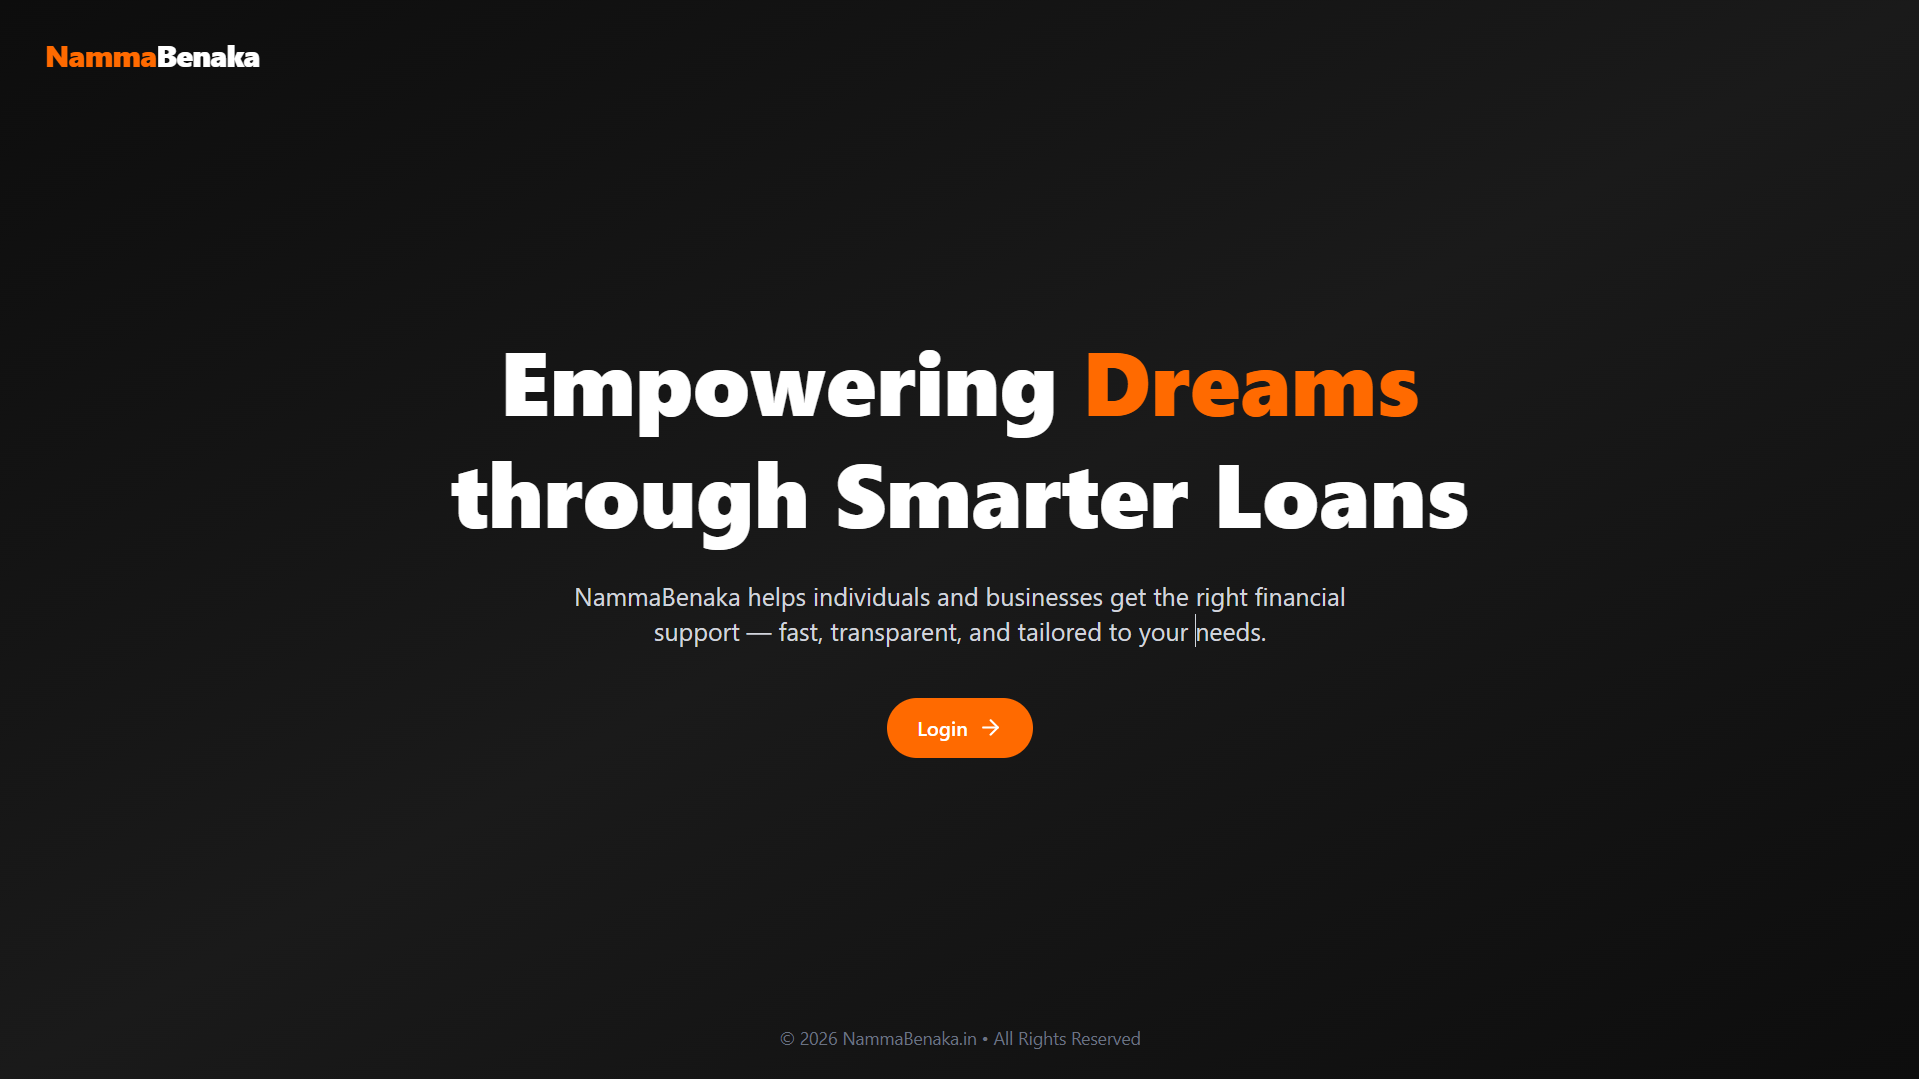
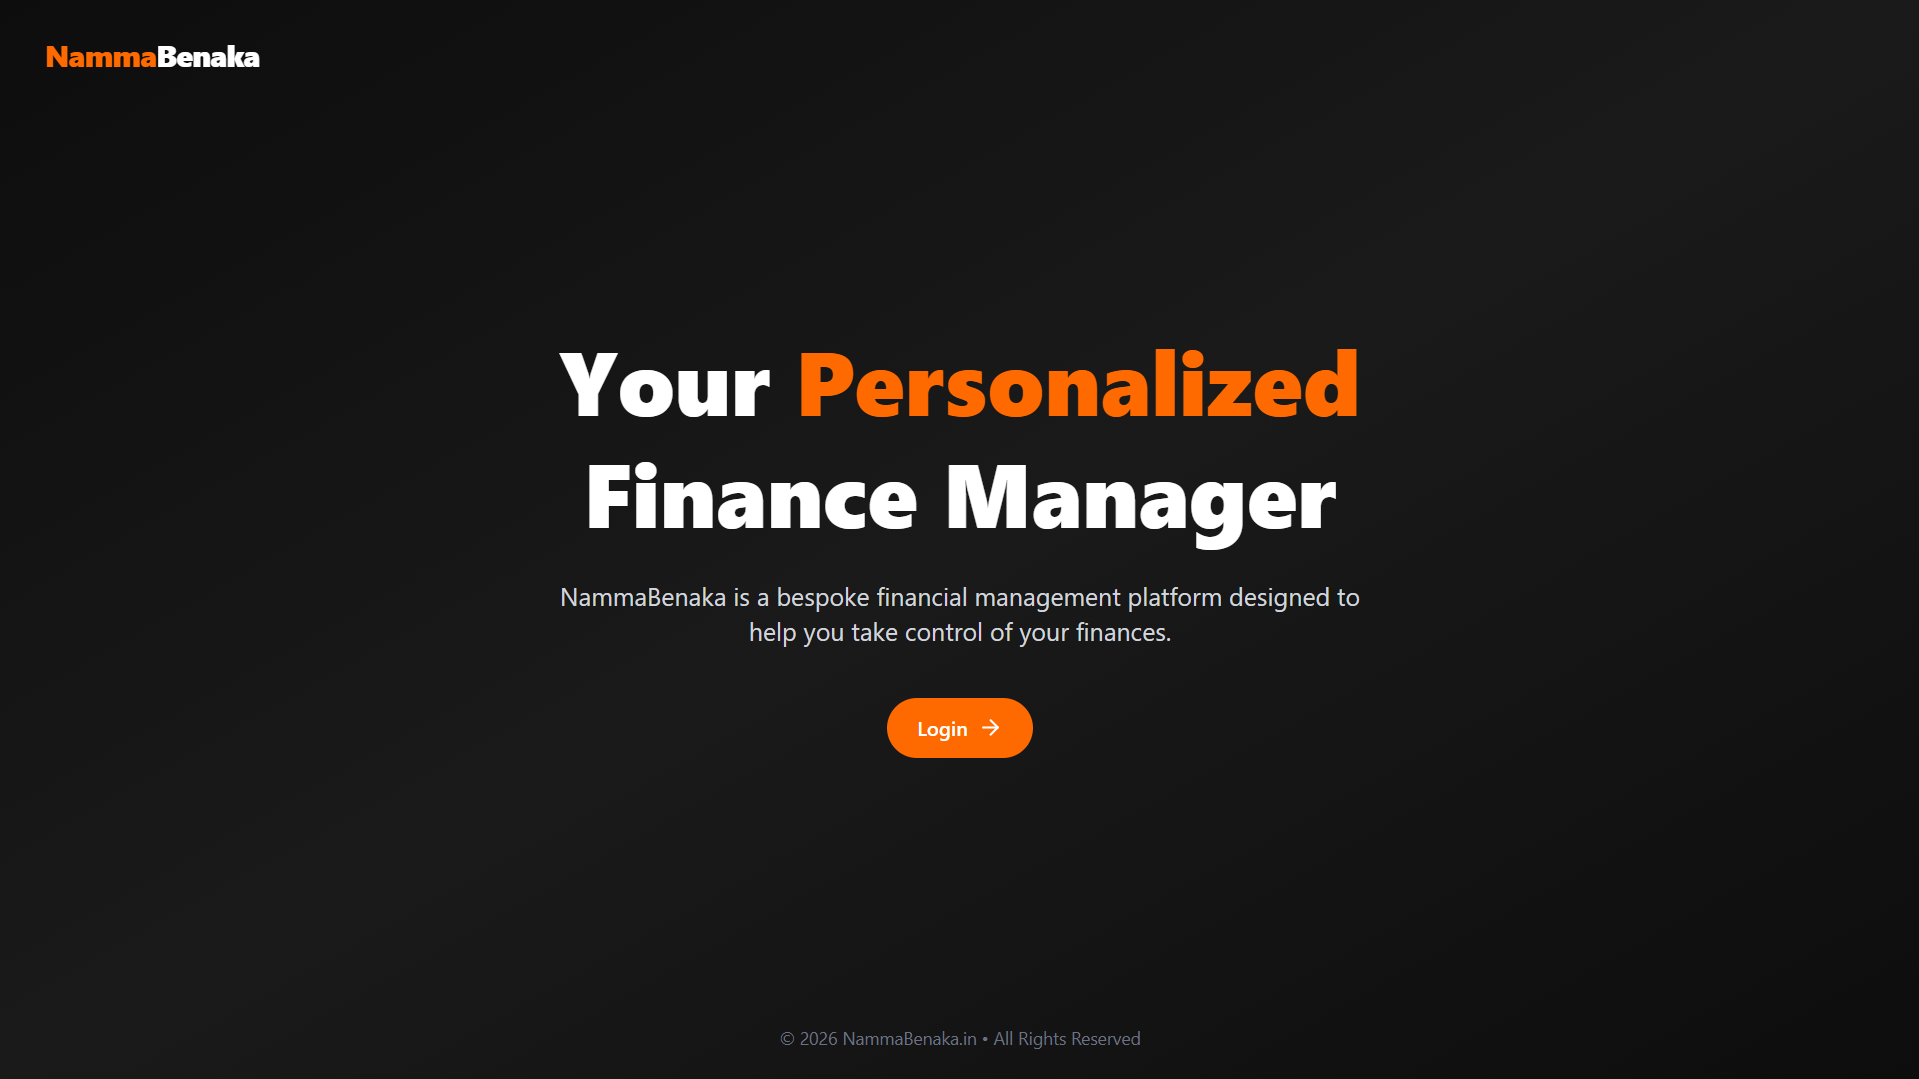
portfolio v2

Changed region(s): [[0.2152, 0.3058, 0.7686, 0.5199], [0.2767, 0.5505, 0.7071, 0.6117]]

diff --git a/app/components/ProjectSection.jsx b/app/components/ProjectSection.jsx
@@ -2,6 +2,7 @@
 
 import React, { useState, useRef } from 'react';
 import Link from 'next/link';
+import Image from 'next/image';
 import { motion, AnimatePresence, useInView } from 'framer-motion';
 
 // ─── DATA ────────────────────────────────────────────────────────────────────
@@ -13,10 +14,11 @@ const PROJECTS = [
     title: 'RUVA',
     sub: 'Full-Stack E-Commerce',
     tagline: 'Traditional Indian ethnic wear - from catalogue to checkout, fully yours.',
-    liveHref: 'https://github.com/Gagan-poojari/',
-    githubHref: 'https://github.com/Gagan-poojari/',
+    liveHref: 'https://ruvaonline.com/',
+    githubHref: 'https://github.com/Gagan-poojari/ruva',
+    image: '/projects/ruva.png',
     cat: 'Full-Stack',
-    accent: '#F97316',
+    accent: '#DB2777',
     stack: ['Next.js', 'React', 'Node.js', 'Express.js', 'MongoDB', 'JWT', 'Razorpay', 'Cloudinary', 'Tailwind CSS', 'Google OAuth', 'Gemini AI', 'EmailJS'],
     bullets: [
       'Product catalog, category browsing, cart, wishlist, and user profiles with complete order history.',
@@ -32,9 +34,10 @@ const PROJECTS = [
     sub: 'AI Video Auto-Censorship',
     tagline: 'Transcribes, detects profanity, and bleeps it - frame-accurate, every time.',
     liveHref: 'https://pleeb-meme-the-mess.streamlit.app/',
-    githubHref: 'https://github.com/Gagan-poojari/',
+    githubHref: 'https://github.com/Gagan-poojari/pleeb',
+    image: '/projects/pleeb.png',
     cat: 'ML & AI',
-    accent: '#DB2777',
+    accent: '#0194E2',
     stack: ['Python', 'FastAPI', 'Whisper', 'FFmpeg', 'MoviePy', 'Pydub', 'Next.js', 'SQLAlchemy', 'SSE', 'REST API'],
     bullets: [
       'AI-powered video censorship: transcribes speech with word-level timestamps, detects profanity, replaces flagged words with bleep/meme audio in perfect sync.',
@@ -49,10 +52,11 @@ const PROJECTS = [
     title: 'MLOps Pipeline',
     sub: 'End-to-End Sentiment Analysis',
     tagline: 'Production-grade NLP pipeline - from raw IMDB data to live predictions.',
-    liveHref: 'https://github.com/Gagan-poojari/',
-    githubHref: 'https://github.com/Gagan-poojari/',
+    liveHref: 'https://github.com/Gagan-poojari/sentiment-mlops',
+    githubHref: 'https://github.com/Gagan-poojari/sentiment-mlops',
+    image: '/projects/mlops.png',
     cat: 'MLOps',
-    accent: '#0194E2',
+    accent: '#F97316',
     stack: ['Python', 'scikit-learn', 'NLTK', 'DVC', 'MLflow', 'DagsHub', 'Flask', 'Prometheus', 'GitHub Actions', 'AWS S3', 'pandas', 'NumPy'],
     bullets: [
       'End-to-end NLP pipeline for binary sentiment classification on IMDB data, serving real-time predictions via Flask UI.',
@@ -69,6 +73,7 @@ const PROJECTS = [
     tagline: 'End-to-end fintech - from borrower onboarding to automated late-fee crons.',
     liveHref: 'https://www.nammabenaka.in/',
     githubHref: 'https://github.com/Gagan-poojari/',
+    image: '/projects/nammabenaka.png',
     cat: 'Full-Stack',
     accent: '#F97316',
     stack: ['Next.js', 'React', 'Node.js', 'Express.js', 'MongoDB', 'JWT', 'Tailwind CSS', 'Recharts', 'Node-Cron', 'bcrypt'],
@@ -85,10 +90,11 @@ const PROJECTS = [
     title: 'HOLMAC Interiors',
     sub: 'Interior Design Portfolio',
     tagline: 'Cinematic entry video, Cloudinary galleries, and every lead captured.',
-    liveHref: 'https://github.com/Gagan-poojari/',
-    githubHref: 'https://github.com/Gagan-poojari/',
+    liveHref: 'https://www.holmacinterior.com/',
+    githubHref: 'https://github.com/Gagan-poojari/holmac_interior',
+    image: '/projects/holmac.png',
     cat: 'Frontend',
-    accent: '#14B8A6',
+    accent: '#F59E0B',
     stack: ['Next.js', 'React', 'Tailwind CSS', 'Cloudinary', 'EmailJS', 'Google Analytics', 'Framer Motion'],
     bullets: [
       'Multi-page marketing site with hero sections, service highlights, product catalogs, and client testimonials.',
@@ -104,7 +110,8 @@ const PROJECTS = [
     sub: 'Institute Enrollment Website',
     tagline: 'Dynamic course pages, query-param registration, and silky Framer carousels.',
     liveHref: 'https://www.fortuneudupi.in/',
-    githubHref: 'https://github.com/Gagan-poojari/',
+    githubHref: 'https://github.com/Gagan-poojari/fice',
+    image: '/projects/fice.png',
     cat: 'Frontend',
     accent: '#4F6EF7',
     stack: ['Next.js', 'React', 'Tailwind CSS', 'Framer Motion', 'Swiper.js', 'EmailJS', 'next/image'],
@@ -122,6 +129,7 @@ const PROJECTS = [
     tagline: 'A flipbook menu, coverflow hero, and the soul of Udupi on every screen.',
     liveHref: 'https://github.com/Gagan-poojari/Sri-Udupi-Food-Hub/tree/main',
     githubHref: 'https://github.com/Gagan-poojari/Sri-Udupi-Food-Hub/tree/main',
+    image: '/projects/sufh.png',
     cat: 'Frontend',
     accent: '#22C55E',
     stack: ['Next.js', 'React', 'Tailwind CSS', 'Swiper.js', 'react-pageflip', 'Framer Motion'],
@@ -136,35 +144,37 @@ const PROJECTS = [
     num: '08',
     title: 'Portfolio',
     sub: 'This Very Website',
-    tagline: 'Rotating steel flowers, scanline beams, and obsessive attention to detail.',
+    tagline: 'Let the world know about me!',
     liveHref: '/',
     githubHref: 'https://github.com/Gagan-poojari/',
+    image: '/projects/portfolio.png',
     cat: 'Frontend',
     accent: '#A855F7',
     stack: ['Next.js', 'React', 'Tailwind CSS', 'Framer Motion', 'EmailJS'],
     bullets: [
       'Cinematic dark experience - scanline effects, particle systems, rotating parallax elements, scroll-driven animations.',
-      'Custom skills section with per-category glow accents, animated badge grid, and stat counters.',
+      'Custom sections with per-category glow accents, animated badge grid, and stat counters.',
       'Horizontal scroll project section with drag support, animated detail panels, and category filtering.',
     ],
   },
-  {
-    id: 'nn',
-    num: '09',
-    title: 'Neural Net from Scratch',
-    sub: 'NumPy-only Digit Classifier',
-    tagline: 'Backprop, gradient descent, 90% accuracy - zero ML libraries.',
-    liveHref: 'https://github.com/Gagan-poojari/',
-    githubHref: 'https://github.com/Gagan-poojari/',
-    cat: 'ML & AI',
-    accent: '#F59E0B',
-    stack: ['Python', 'NumPy', 'Matplotlib', 'MNIST'],
-    bullets: [
-      'Handwritten digit classifier from scratch using only NumPy - no TensorFlow, no PyTorch.',
-      'Implemented forward pass, backpropagation, and gradient descent manually from first principles.',
-      'Achieved 90% test accuracy on MNIST, validating against industry-standard benchmarks.',
-    ],
-  },
+  // {
+  //   id: 'nn',
+  //   num: '09',
+  //   title: 'Neural Net from Scratch',
+  //   sub: 'NumPy-only Digit Classifier',
+  //   tagline: 'Backprop, gradient descent, 90% accuracy - zero ML libraries.',
+  //   liveHref: 'https://github.com/Gagan-poojari/',
+  //   githubHref: 'https://github.com/Gagan-poojari/',
+  //   image: '/projects/nn.png',
+  //   cat: 'ML & AI',
+  //   accent: '#14B8A6',
+  //   stack: ['Python', 'NumPy', 'Matplotlib', 'MNIST'],
+  //   bullets: [
+  //     'Handwritten digit classifier from scratch using only NumPy - no TensorFlow, no PyTorch.',
+  //     'Implemented forward pass, backpropagation, and gradient descent manually from first principles.',
+  //     'Achieved 90% test accuracy on MNIST, validating against industry-standard benchmarks.',
+  //   ],
+  // },
 ];
 
 const CATS = ['All', 'Full-Stack', 'ML & AI', 'MLOps', 'Frontend'];
@@ -227,24 +237,21 @@ function ProjectRow({ project, index, isExpanded, onToggle }) {
           {num}
         </div>
 
-        {/* ── Visual pane */}
-        <div className={`relative md:w-[48%] w-full flex-shrink-0 overflow-hidden`}
+        {/* Placeholder Visual pane */}
+        {/* <div className={`relative md:w-[48%] w-full flex-shrink-0 overflow-hidden`}
           style={{ minHeight: '280px', aspectRatio: '16/10' }}>
-          {/* Placeholder visual - replace with next/image when you have screenshots */}
           <div
             className="absolute inset-0 flex items-center justify-center transition-all duration-700 group-hover:scale-[1.03]"
             style={{
               background: `radial-gradient(ellipse at 40% 50%, ${hex2rgba(accent, 0.15)}, transparent 70%), linear-gradient(135deg, #0a0a0a 0%, #111 100%)`,
             }}
           >
-            {/* Grid texture overlay */}
             <div className="absolute inset-0 opacity-20"
               style={{
                 backgroundImage: `linear-gradient(${hex2rgba(accent, 0.15)} 1px, transparent 1px), linear-gradient(90deg, ${hex2rgba(accent, 0.15)} 1px, transparent 1px)`,
                 backgroundSize: '32px 32px',
               }}
             />
-            {/* Title monogram */}
             <span
               className="relative z-10 font-black tracking-tighter select-none"
               style={{
@@ -258,7 +265,6 @@ function ProjectRow({ project, index, isExpanded, onToggle }) {
             </span>
           </div>
 
-          {/* Category badge */}
           <div className="absolute top-4 left-4 z-20">
             <span
               className="text-[9px] font-mono tracking-[0.2em] uppercase px-3 py-1.5 rounded-full backdrop-blur-sm border"
@@ -271,8 +277,7 @@ function ProjectRow({ project, index, isExpanded, onToggle }) {
               {project.cat}
             </span>
           </div>
-
-          {/* Accent line left/right edge */}
+          
           <div
             className={`absolute top-0 bottom-0 w-[2px] transition-opacity duration-300 ${isExpanded ? 'opacity-100' : 'opacity-0 group-hover:opacity-60'}`}
             style={{
@@ -280,7 +285,78 @@ function ProjectRow({ project, index, isExpanded, onToggle }) {
               [isEven ? 'right' : 'left']: 0,
             }}
           />
-        </div>
+        </div> */}
+        {/* ── Visual pane */}
+<div
+  className="relative md:w-[48%] w-full flex-shrink-0 overflow-hidden bg-black"
+  style={{ minHeight: '320px' }}
+>
+  <motion.div
+    className="absolute inset-0"
+    whileHover={{ scale: 1.04 }}
+    transition={{ duration: 0.7 }}
+  >
+    <Image
+      src={project.image}
+      alt={title}
+      fill
+      className="object-cover"
+    />
+  </motion.div>
+
+  {/* dark overlay */}
+  <div className="absolute inset-0 bg-gradient-to-t from-black via-black/30 to-transparent" />
+
+  {/* accent glow */}
+  <div
+    className="absolute inset-0"
+    style={{
+      background: `linear-gradient(
+        135deg,
+        ${hex2rgba(accent, 0.15)},
+        transparent 45%
+      )`,
+    }}
+  />
+
+  {/* category */}
+  <div className="absolute top-5 left-5 z-20">
+    <span
+      className="text-[9px] font-mono tracking-[0.2em] uppercase px-3 py-1.5 rounded-full backdrop-blur-md border"
+      style={{
+        color: accent,
+        borderColor: hex2rgba(accent, 0.35),
+        background: hex2rgba(accent, 0.15),
+      }}
+    >
+      {project.cat}
+    </span>
+  </div>
+
+  {/* project number */}
+  <div
+    className="absolute bottom-4 right-5 z-20 font-black"
+    style={{
+      fontFamily: "'Syne', sans-serif",
+      fontSize: '70px',
+      color: hex2rgba(accent, 0.18),
+      lineHeight: 1,
+    }}
+  >
+    {num}
+  </div>
+
+  {/* accent edge */}
+  <div
+    className={`absolute top-0 bottom-0 w-[2px] ${
+      isExpanded ? 'opacity-100' : 'opacity-0 group-hover:opacity-70'
+    }`}
+    style={{
+      background: `linear-gradient(to bottom, transparent, ${accent}, transparent)`,
+      [isEven ? 'right' : 'left']: 0,
+    }}
+  />
+</div>
 
         {/* ── Content pane */}
         <div className={`relative z-10 flex-1 min-w-0 flex flex-col justify-center px-8 md:px-12 py-10 md:py-14 overflow-hidden`}>
@@ -291,7 +367,7 @@ function ProjectRow({ project, index, isExpanded, onToggle }) {
             Project {num} &nbsp;·&nbsp; {sub}
           </p>
 
-          <h3
+          {/* <h3
             className="font-black leading-[0.92] tracking-tight mb-4 break-words min-w-0"
             style={{
               fontFamily: "'Syne', sans-serif",
@@ -300,7 +376,19 @@ function ProjectRow({ project, index, isExpanded, onToggle }) {
             }}
           >
             {title}
-          </h3>
+          </h3> */}
+          <span
+  className="bg-clip-text text-transparent"
+  style={{
+    backgroundImage: `linear-gradient(
+      90deg,
+      #fff,
+      ${hex2rgba(accent, 0.9)}
+    )`,
+  }}
+>
+  {title}
+</span>
 
           <p className="text-[13px] text-white/50 leading-relaxed mb-6 max-w-md">{tagline}</p>
 
